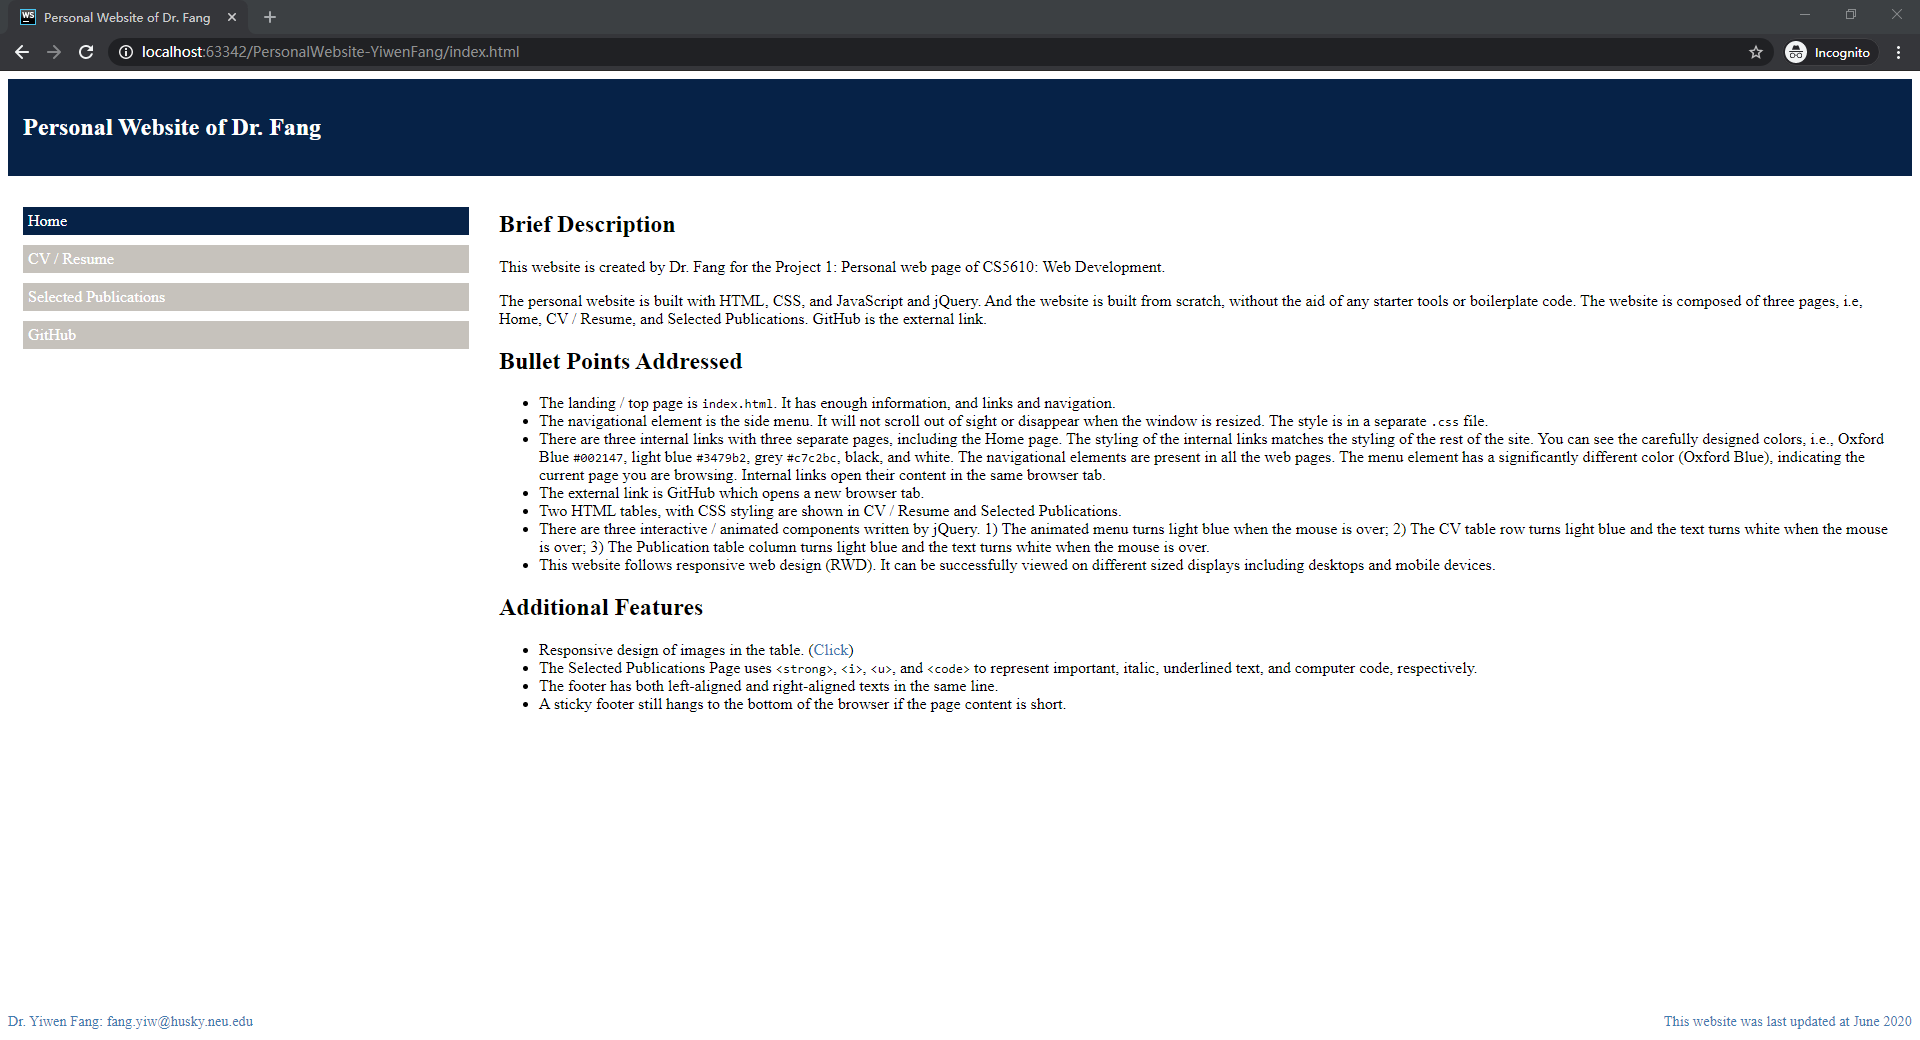
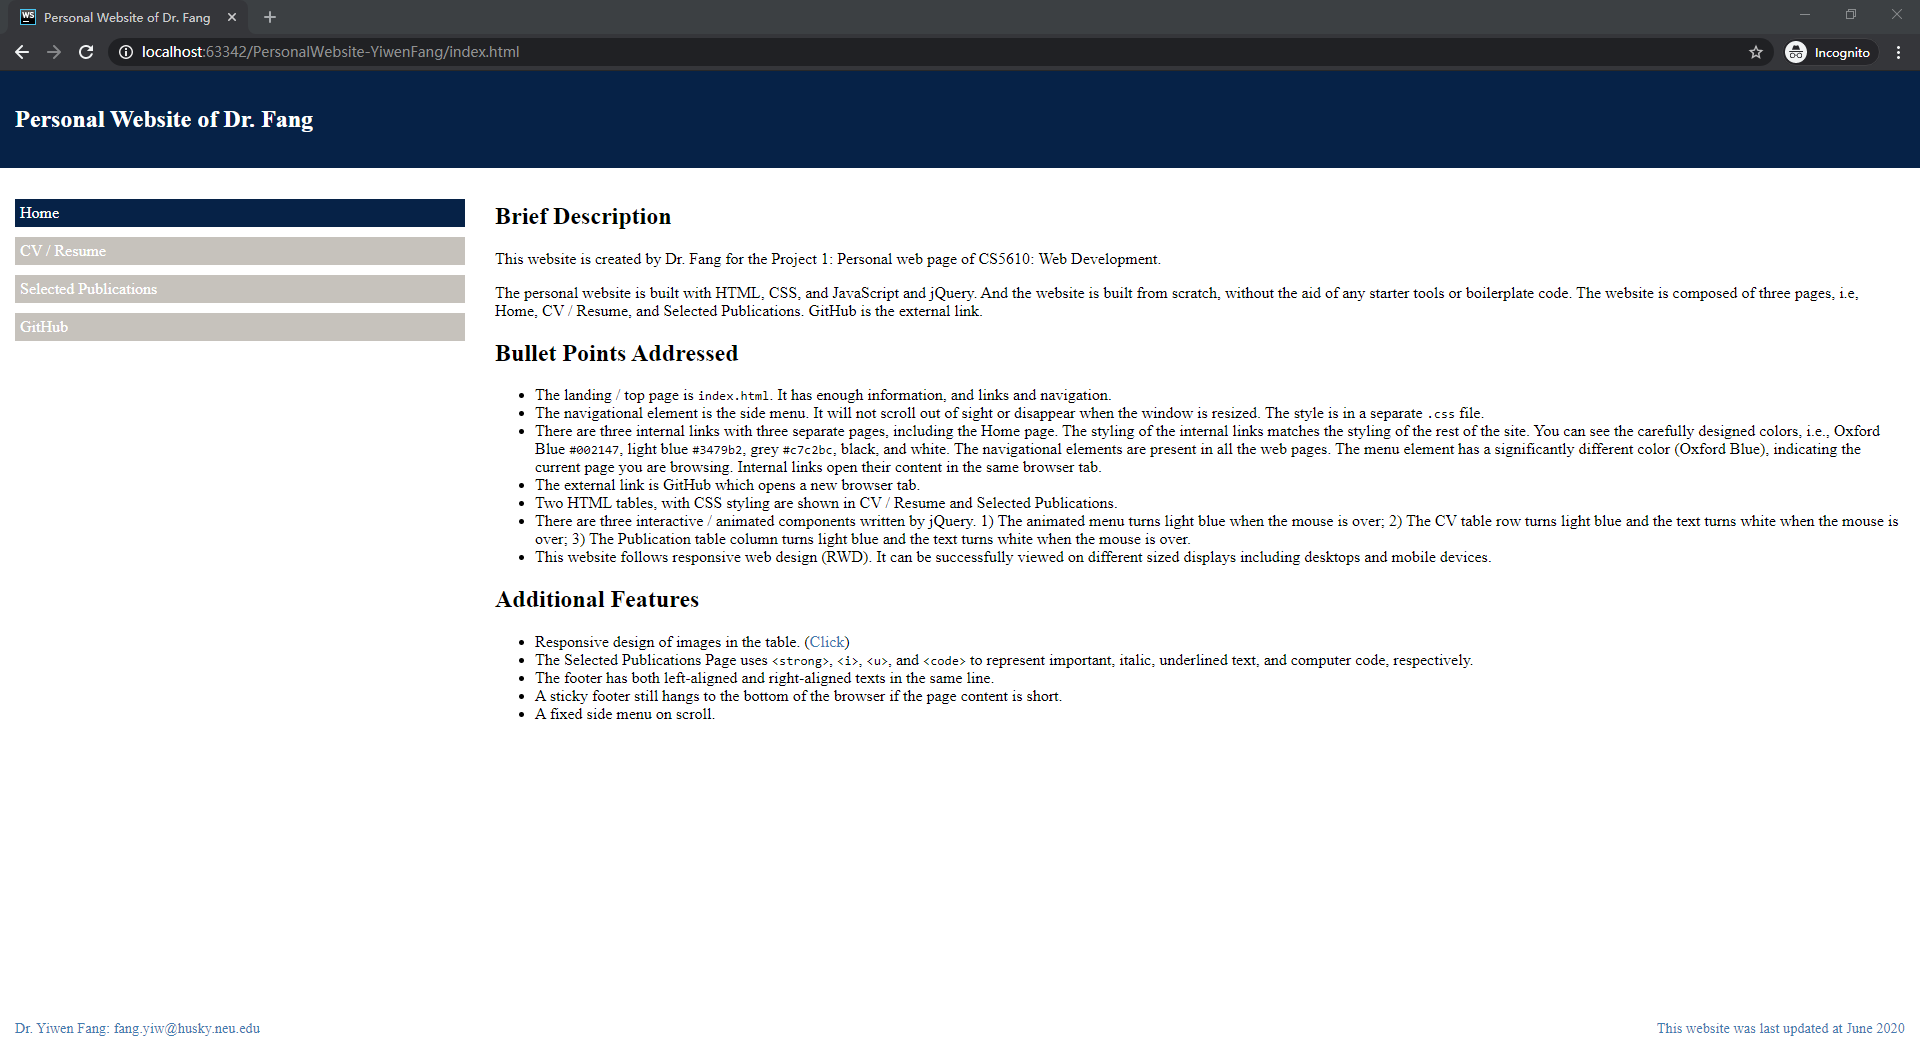
Add fixed side menu on scroll, end Project 1

Changed region(s): [[0.0, 0.0615, 1.0, 0.7077], [0.8438, 0.9538, 1.0, 1.0], [0.0, 0.9538, 0.1562, 1.0]]

diff --git a/css/style1.css b/css/style1.css
@@ -2,6 +2,10 @@
     box-sizing: border-box;
 }
 
+body {
+    margin: 0;
+}
+
 .header {
     background-color: #002147;
     color: #ffffff;
@@ -12,6 +16,8 @@
     width: 25%;
     float: left;
     padding: 15px;
+    float: left;
+    background-color: white;
 }
 
 .side_menu ul {
@@ -50,7 +56,7 @@ a:not(#link_click):link, a:not(#link_click):visited {
 
 .main {
     width: 75%;
-    float: left;
+    float: right;
     padding: 15px;
 }
 
@@ -78,6 +84,12 @@ a:not(#link_click):link, a:not(#link_click):visited {
 
 .footer {
     height: 19px;
+    padding: 15px;
+}
+
+.sticky {
+    position: fixed;
+    top: 0;
 }
 
 /* For mobile devices: */

diff --git a/index.html b/index.html
@@ -15,7 +15,7 @@
     </div>
 
     <div class="row">
-      <div class="side_menu">
+      <div class="side_menu" id="side_menu">
         <ul>
           <li id="menu_current"><a href="index.html">Home</a></li>
           <li><a href="html/cv.html">CV / Resume</a></li>
@@ -75,6 +75,7 @@
           </li>
           <li>The footer has both left-aligned and right-aligned texts in the same line.</li>
           <li>A sticky footer still hangs to the bottom of the browser if the page content is short.</li>
+          <li>A fixed side menu on scroll.</li>
         </ul>
       </div>
     </div>

diff --git a/css/style2.css b/css/style2.css
@@ -2,6 +2,10 @@
     box-sizing: border-box;
 }
 
+body {
+    margin: 0;
+}
+
 .header {
     background-color: #002147;
     color: #ffffff;
@@ -12,6 +16,8 @@
     width: 25%;
     float: left;
     padding: 15px;
+    float: left;
+    background-color: white;
 }
 
 .side_menu ul {
@@ -41,7 +47,7 @@ a:link, a:visited {
 
 .main {
     width: 75%;
-    float: left;
+    float: right;
     padding: 15px;
 }
 
@@ -74,6 +80,12 @@ table, table td, table th {
 
 .footer {
     height: 19px;
+    padding: 15px;
+}
+
+.sticky {
+    position: fixed;
+    top: 0;
 }
 
 /* For mobile devices: */

diff --git a/css/style3.css b/css/style3.css
@@ -2,6 +2,10 @@
     box-sizing: border-box;
 }
 
+body {
+    margin: 0;
+}
+
 .header {
     background-color: #002147;
     color: #ffffff;
@@ -12,6 +16,8 @@
     width: 25%;
     float: left;
     padding: 15px;
+    float: left;
+    background-color: white;
 }
 
 .side_menu ul {
@@ -41,7 +47,7 @@ a:link, a:visited {
 
 .main {
     width: 75%;
-    float: left;
+    float: right;
     padding: 15px;
 }
 
@@ -79,6 +85,12 @@ img {
 
 .footer {
     height: 19px;
+    padding: 15px;
+}
+
+.sticky {
+    position: fixed;
+    top: 0;
 }
 
 /* For mobile devices: */

diff --git a/javascripts/script1.js b/javascripts/script1.js
@@ -10,4 +10,16 @@ $(document).ready(function () {
   }, function () {
     $(this).css("background-color", "#002147");
   });
+
+  // Fixed side menu on scroll
+  window.onscroll = function () {
+    const side_menu = document.getElementById("side_menu");
+    (function sticky_side_menu() {
+      if (window.pageYOffset > side_menu.offsetTop) {
+        side_menu.classList.add("sticky");
+      } else {
+        side_menu.classList.remove("sticky");
+      }
+    })();
+  };
 });

diff --git a/javascripts/script2.js b/javascripts/script2.js
@@ -16,4 +16,16 @@ $(document).ready(function () {
   }, function () {
     $(this).css("background-color", "#002147");
   });
+
+  // Fixed side menu on scroll
+  window.onscroll = function () {
+    const side_menu = document.getElementById("side_menu");
+    (function sticky_side_menu() {
+      if (window.pageYOffset > side_menu.offsetTop) {
+        side_menu.classList.add("sticky");
+      } else {
+        side_menu.classList.remove("sticky");
+      }
+    })();
+  };
 });

diff --git a/javascripts/script3.js b/javascripts/script3.js
@@ -16,4 +16,16 @@ $(document).ready(function () {
   }, function () {
     $(this).css("background-color", "#002147");
   });
+
+  // Fixed side menu on scroll
+  window.onscroll = function () {
+    const side_menu = document.getElementById("side_menu");
+    (function sticky_side_menu() {
+      if (window.pageYOffset > side_menu.offsetTop) {
+        side_menu.classList.add("sticky");
+      } else {
+        side_menu.classList.remove("sticky");
+      }
+    })();
+  };
 });

diff --git a/html/cv.html b/html/cv.html
@@ -15,7 +15,7 @@
     </div>
 
     <div class="row">
-      <div class="side_menu">
+      <div class="side_menu" id="side_menu">
         <ul>
           <li><a href="../index.html">Home</a></li>
           <li id="menu_current"><a href="cv.html">CV / Resume</a></li>

diff --git a/html/selected_publications.html b/html/selected_publications.html
@@ -15,7 +15,7 @@
     </div>
 
     <div class="row">
-      <div class="side_menu">
+      <div class="side_menu" id="side_menu">
         <ul>
           <li><a href="../index.html">Home</a></li>
           <li><a href="cv.html">CV / Resume</a></li>

diff --git a/README.md b/README.md
@@ -22,6 +22,7 @@ The personal website is built with HTML, CSS, and JavaScript and jQuery. And the
 * The Selected Publications Page uses `<strong>`, `<i>`, `<u>`, and `<code>` to represent important, italic, underlined text, and computer code, respectively.
 * The footer has both left-aligned and right-aligned texts in the same line.
 * A sticky footer still hangs to the bottom of the browser if the page content is short.
+* A fixed side menu on scroll.
 
 ## Screenshots
 
